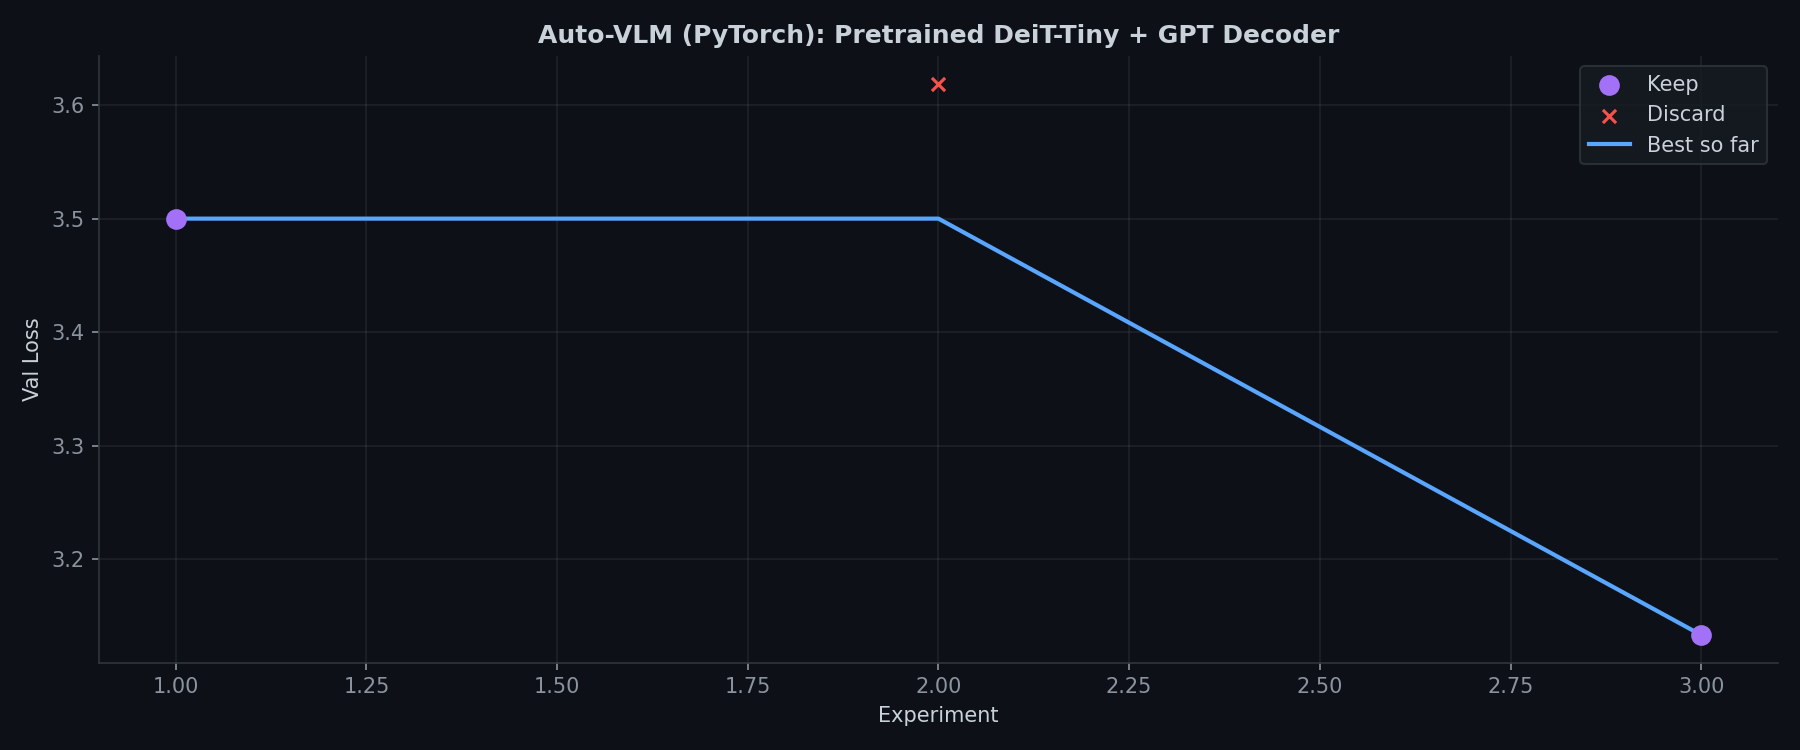
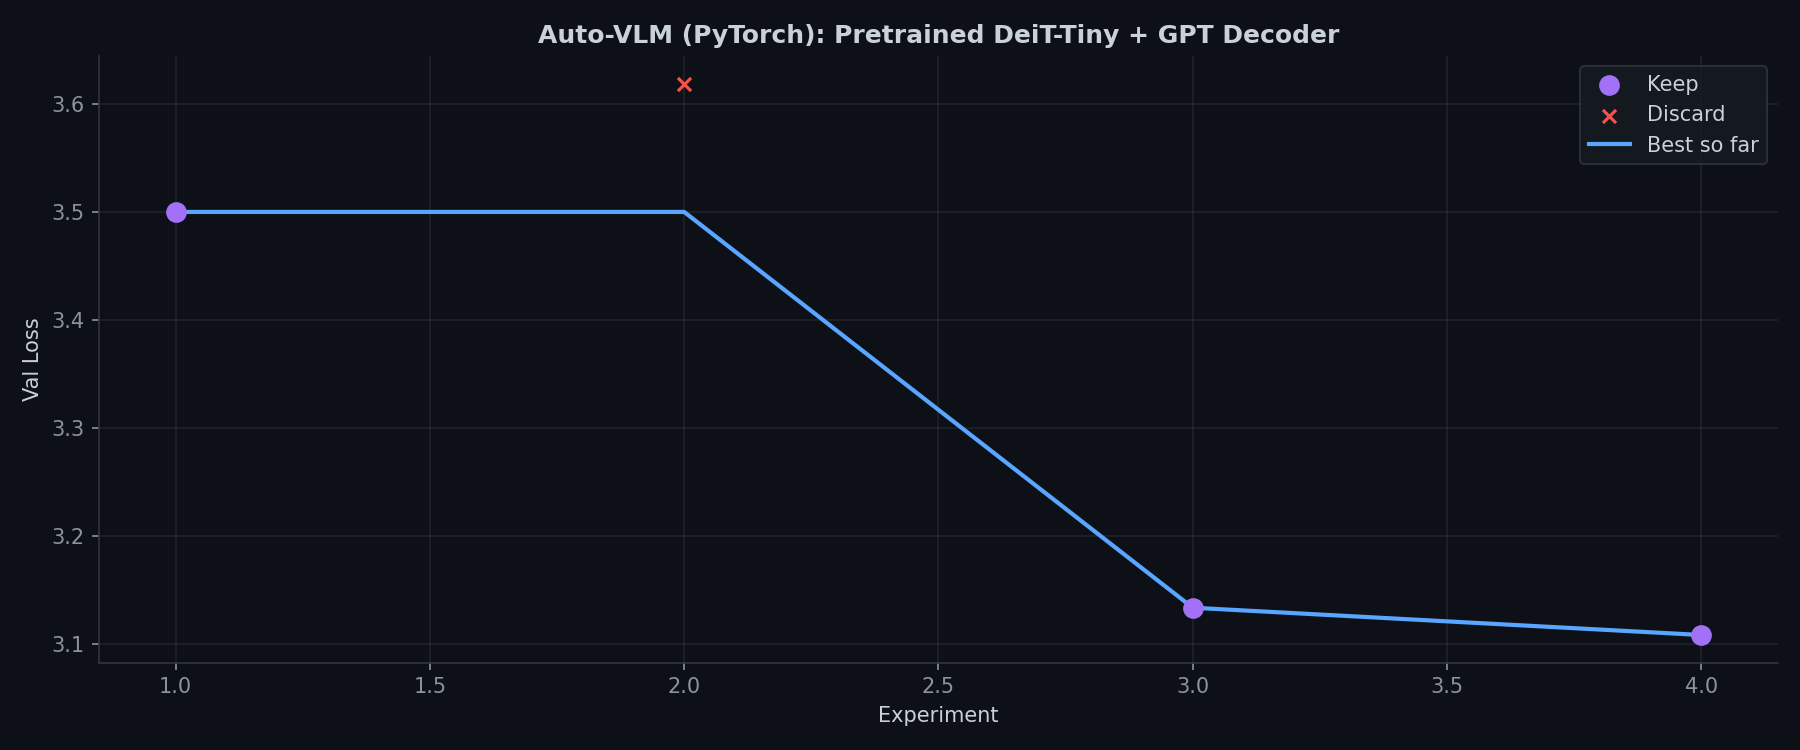
exp T-004: bs=2 + 60min (val=3.1081, OD=3.30, VQA=2.48)

diff --git a/train_torch.py b/train_torch.py
@@ -49,7 +49,7 @@ class Config:
     warmup_steps: int = 100
     dropout: float = 0.1
     grad_clip: float = 1.0
-    time_budget: int = 1800  # seconds
+    time_budget: int = 3600  # seconds
 
     # Data
     vocab_size: int = 0  # Set from tokenizer
